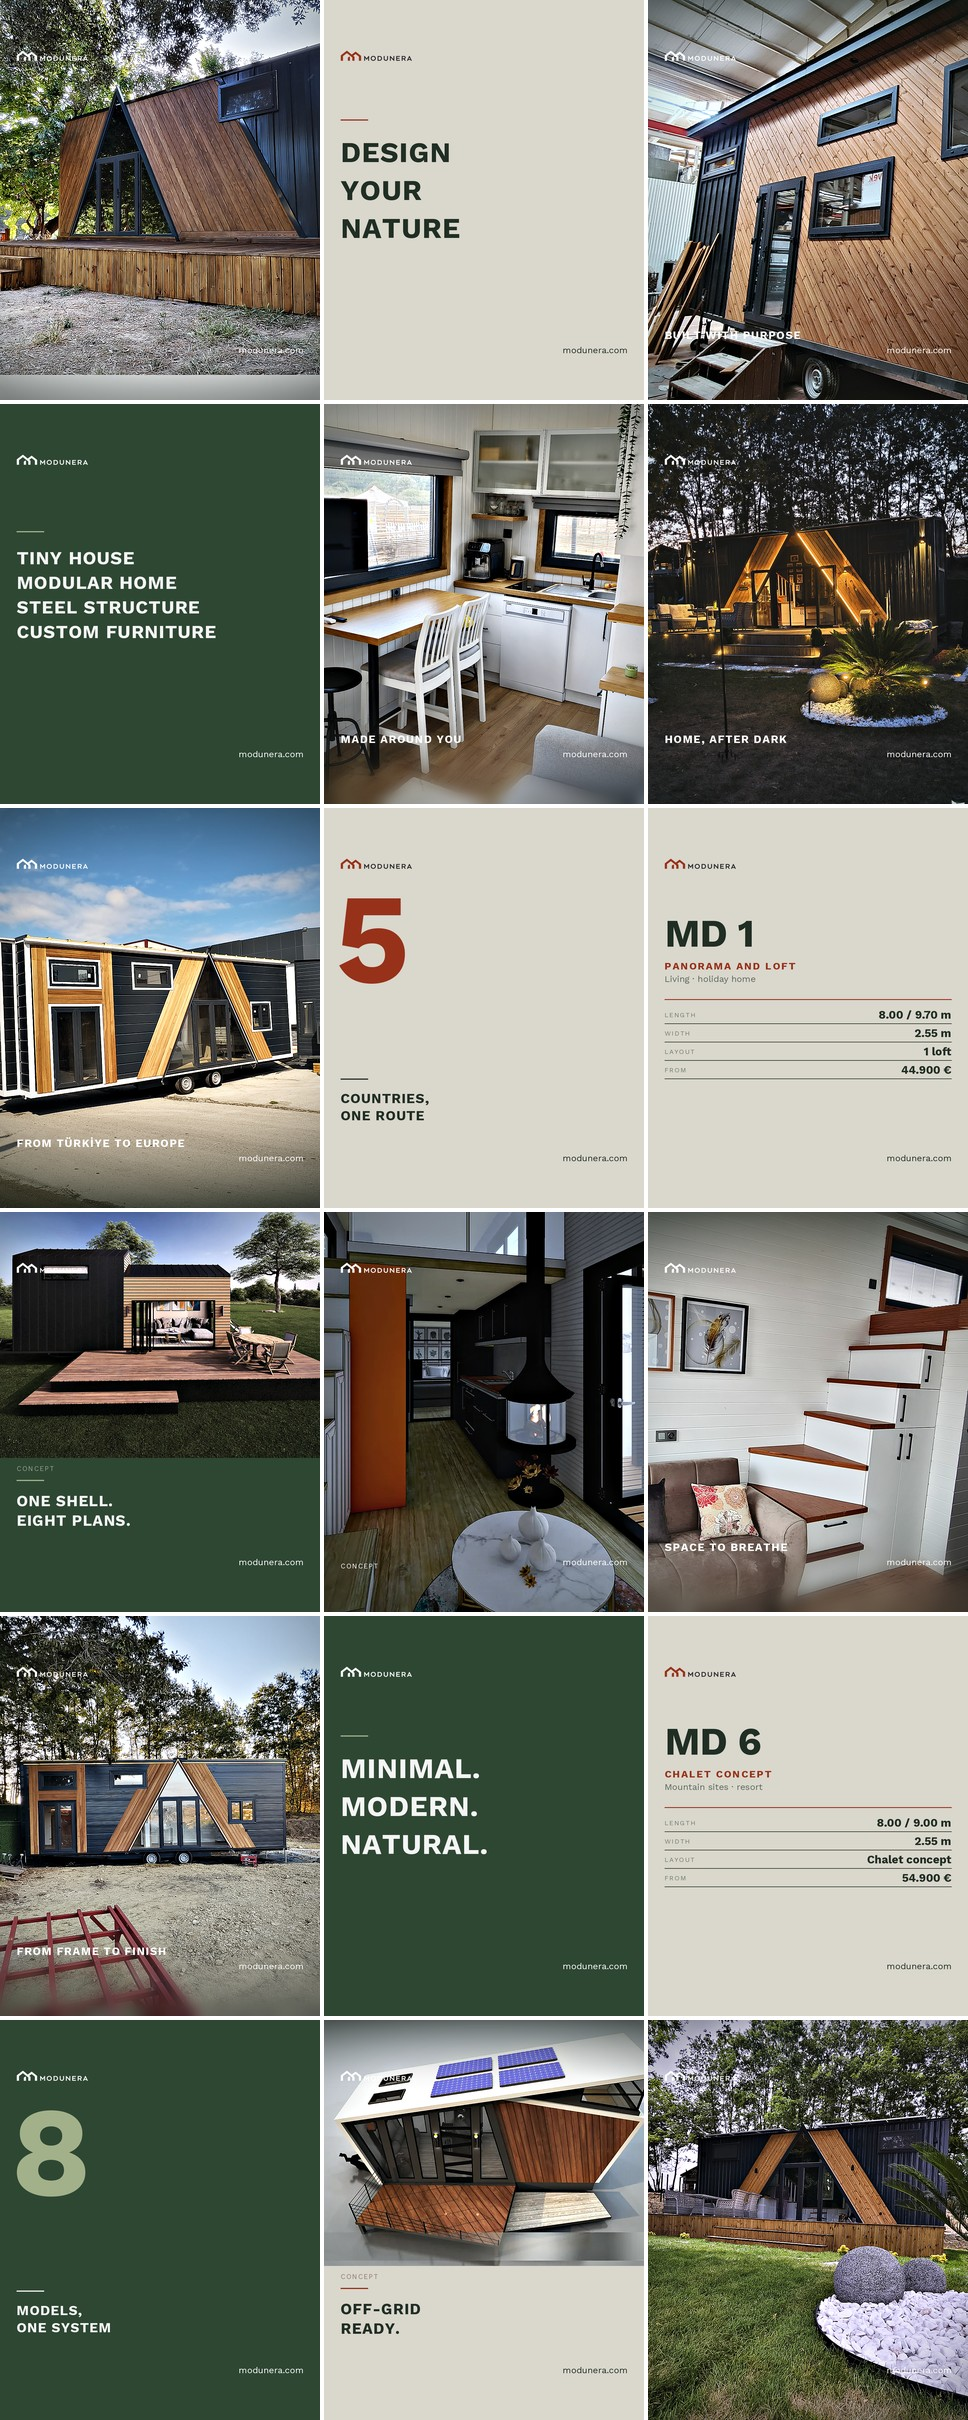
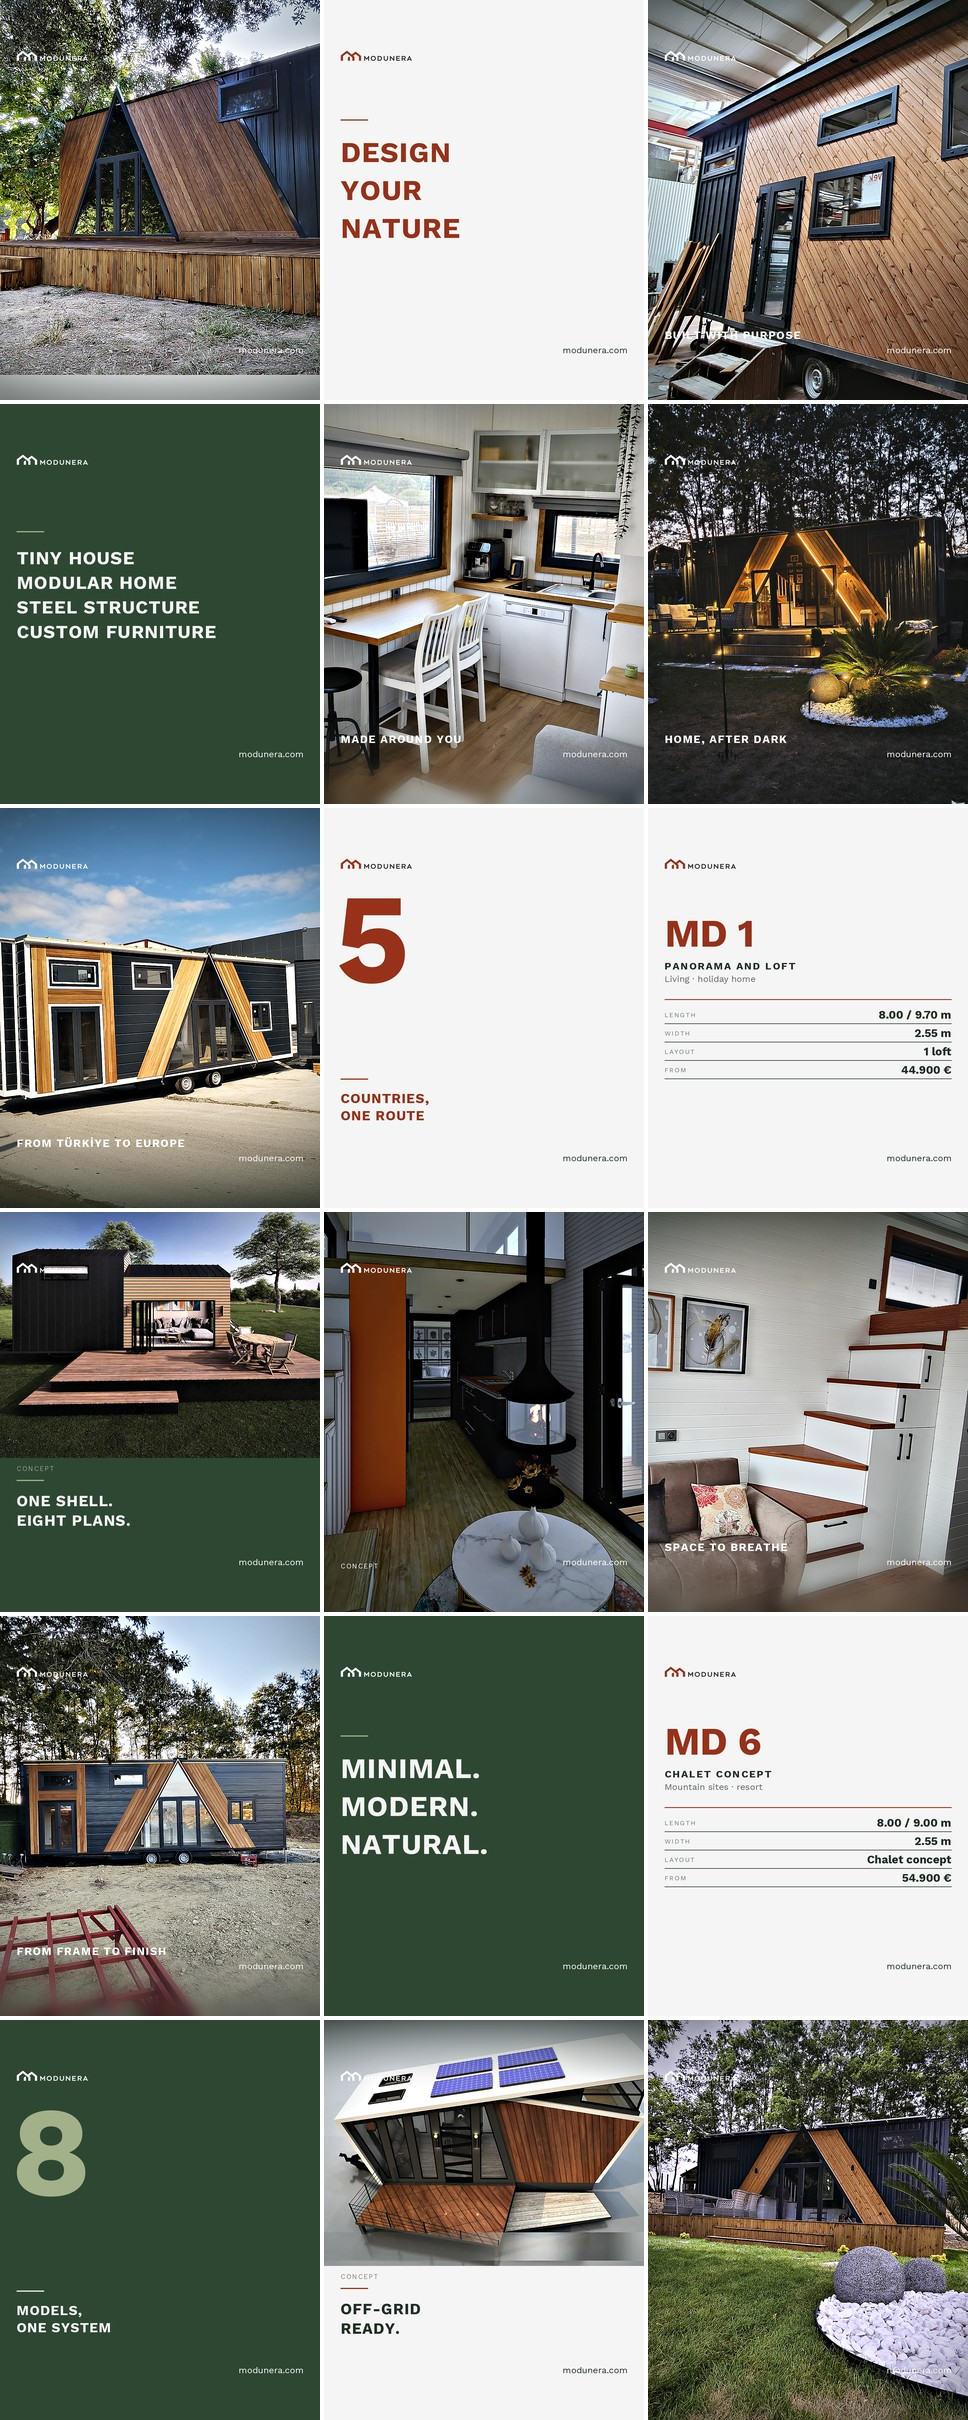
social: use the site's real ground and heading colour, not ones near them
Checked against the stylesheet rather than from memory, and two of my choices did
not match the site.

The site paints its page ground --paper #F5F5F5. The cards were using #DAD7CD,
which on the site is --paper-2, the *alternating* section band — a relative of
the right colour, not the right colour. Cards now sit on #F5F5F5, so a card and a
section of the website are the same white.

More significant: tools/design-system-v2.css sets h1, h2, h3 and every card h3 to
var(--roof) #97311A. The card statements were set in #202E24, an ink I introduced
that appears nowhere in the site's tokens. Headings on a light ground now take the
roof red, which is what makes a card read as this brand rather than as a generic
minimal layout. Ink is demoted to what it is on the site: body and label text.

The font is still not a match and cannot be made one here. The site declares
Poppins with Manrope as fallback; neither will fetch through this proxy — Google
Fonts returns nothing and GitHub raw returns 403 — so the drafts remain in Work
Sans. brand-rules.md now says that plainly instead of describing it as a mild
substitution, and names the two lines to change once the fonts are installed.

Claude-Session: https://claude.ai/code/session_01BLg6N5UVabUgKBxSMhyrDF

diff --git a/tools/social/build_instagram_grid.py b/tools/social/build_instagram_grid.py
@@ -58,7 +58,8 @@ SAGE = (163, 177, 138)        # #A3B18A
 CREAM = (218, 215, 205)       # #DAD7CD  the off-white card ground
 PAPER = (245, 245, 245)       # #F5F5F5
 ROOF = (151, 49, 26)          # #97311A  the logo's roof red
-INK = (32, 46, 36)
+INK = (32, 46, 36)            # body text only — the site sets headings in roof red
+LIGHT_GROUND = PAPER          # #F5F5F5, what the site actually paints as its page
 
 # Instagram crops the grid thumbnail to a centred square: 135 px off the top and
 # the bottom of a 1080x1350 post. Nothing that identifies the brand goes there.
@@ -390,7 +391,9 @@ def card_post(lines: list[str], ground: tuple[int, int, int], light_type: bool,
     draw = ImageDraw.Draw(canvas)
     place_logo(canvas, light=light_type)
 
-    ink = PAPER if light_type else INK
+    # Headings on a light ground take the roof red, exactly as h1/h2/h3 do on
+    # every page of the site. Ink is for body copy.
+    ink = PAPER if light_type else ROOF
     accent = SAGE if light_type else ROOF
     f = F_TITLE(size)
     leading = int(size * 1.34)
@@ -434,13 +437,13 @@ def spec_post(model: str, name: str, sub: str, rows: list[tuple[str, str]]) -> I
     """A specification sheet, not a slogan. The model name sits large at the top
     of the safe square, the figures run as label/value rows under a hairline, and
     the lower half is left empty. Nothing is centred."""
-    canvas = Image.new("RGB", (POST_W, POST_H), CREAM)
+    canvas = Image.new("RGB", (POST_W, POST_H), LIGHT_GROUND)
     draw = ImageDraw.Draw(canvas)
     place_logo(canvas, light=False)
 
     top = SAFE_TOP + 210
-    tracked(draw, (MARGIN, top), model, F_TITLE(132), INK, tracking=-2)
-    tracked(draw, (MARGIN, top + 168), name.upper(), F_TITLE(34), ROOF, tracking=4)
+    tracked(draw, (MARGIN, top), model, F_TITLE(132), ROOF, tracking=-2)
+    tracked(draw, (MARGIN, top + 168), name.upper(), F_TITLE(34), INK, tracking=4)
     draw.text((MARGIN, top + 214), sub, font=F_BODY(30), fill=(90, 104, 92))
 
     y = top + 300
@@ -509,7 +512,7 @@ def numeral_post(figure: str, label: list[str], ground: tuple[int, int, int],
     canvas = Image.new("RGB", (POST_W, POST_H), ground)
     draw = ImageDraw.Draw(canvas)
     place_logo(canvas, light=light_type)
-    ink = PAPER if light_type else INK
+    ink = PAPER if light_type else ROOF
     accent = SAGE if light_type else ROOF
 
     f = F_TITLE(430)
@@ -581,7 +584,7 @@ POSTS = [
 
     # ---- row 3 : delivery, a numeral, a specification sheet
     dict(kind="photo", src="IMG_20250913_104632.jpg", title="FROM TÜRKİYE TO EUROPE", focus=0.52, look=L_EXT),
-    dict(kind="numeral", figure="5", label=["COUNTRIES,", "ONE ROUTE"], ground=CREAM, light=False),
+    dict(kind="numeral", figure="5", label=["COUNTRIES,", "ONE ROUTE"], ground=LIGHT_GROUND, light=False),
     dict(kind="spec", model="MD 1", name="Panorama and loft", sub="Living · holiday home",
          rows=model_rows("mc1")),
 
@@ -600,7 +603,7 @@ POSTS = [
     # ---- row 6 : a numeral, a detail, the closing photograph
     dict(kind="numeral", figure="8", label=["MODELS,", "ONE SYSTEM"], ground=MOSS_DEEP, light=True),
     dict(kind="duo", src_path=GALLERY / "mc7-solar.webp", lines=["OFF-GRID", "READY."],
-         ground=CREAM, light=False, focus=0.5, concept=True, look=L_EXT),
+         ground=LIGHT_GROUND, light=False, focus=0.5, concept=True, look=L_EXT),
     dict(kind="photo", src="IMG_20250525_142713.jpg", title=None, focus=0.42, look=L_EXT),
 ]
 
@@ -619,7 +622,7 @@ def main() -> None:
             if spec.get("note"):
                 entry["note"] = spec["note"]
         elif spec["kind"] == "cream":
-            img = card_post(spec["lines"], CREAM, light_type=False, size=spec["size"])
+            img = card_post(spec["lines"], LIGHT_GROUND, light_type=False, size=spec["size"])
             entry = {"post": i, "type": "card, off-white", "lines": spec["lines"]}
         elif spec["kind"] == "forest":
             img = card_post(spec["lines"], MOSS_DEEP, light_type=True, size=spec["size"])

diff --git a/social/instagram/02-design-system/brand-rules.md b/social/instagram/02-design-system/brand-rules.md
@@ -20,10 +20,12 @@ social, and nothing is brightened for the feed.
 | Moss deep | `#2E4733` | Forest-green card ground |
 | Moss | `#3A5A40` | Reserved; darker rules and hover states on the site |
 | Sage | `#A3B18A` | The short rule above the type on a green card |
-| Cream | `#DAD7CD` | Off-white card ground |
+| Paper | `#F5F5F5` | Light card ground — the same ground the site paints on `body` |
+| Cream | `#DAD7CD` | The site's *alternating* section band. Not used as a card ground |
 | Paper | `#F5F5F5` | Type on a green card |
 | Roof red | `#97311A` | The short rule above the type on a cream card. Sampled from the logo mark |
-| Ink | `#202E24` | Type on a cream card |
+| Roof red | `#97311A` | **All headings on a light ground**, exactly as `h1,h2,h3` and every card `h3` are painted on the site |
+| Ink | `#202E24` | Body and label text on a light ground only |
 
 Forbidden, and not present in any output: neon, gold, gradients used as
 decoration, heavy drop shadow, artificial 3D, HDR-look grading, stock-photo
@@ -40,9 +42,15 @@ The site's display face is **Manrope**. It is not installed in the environment
 that renders these drafts, so the drafts are set in **Work Sans** — the closest
 humanist geometric available, same skeleton, same proportions.
 
-**This is a draft substitution, not a brand decision.** Install Manrope and
-re-run the script with `--full` before anything is published; the layout is
-metric-driven and will not need redesigning.
+**This is a draft substitution, not a brand decision, and it is a genuine
+mismatch until it is fixed.** The site declares `--display: "Poppins","Manrope"`
+and sets `body` in Manrope. Neither can be fetched in this environment — Google
+Fonts returns nothing through the proxy and GitHub raw returns 403 — so the
+drafts are set in Work Sans.
+
+Install Poppins and Manrope and change `F_TITLE`/`F_BODY` at the top of the
+script before anything is published. The layout is metric-driven, so nothing
+needs redesigning; only the faces change.
 
 | Role | Face | Size at 1080×1350 | Tracking |
 |---|---|---|---|
